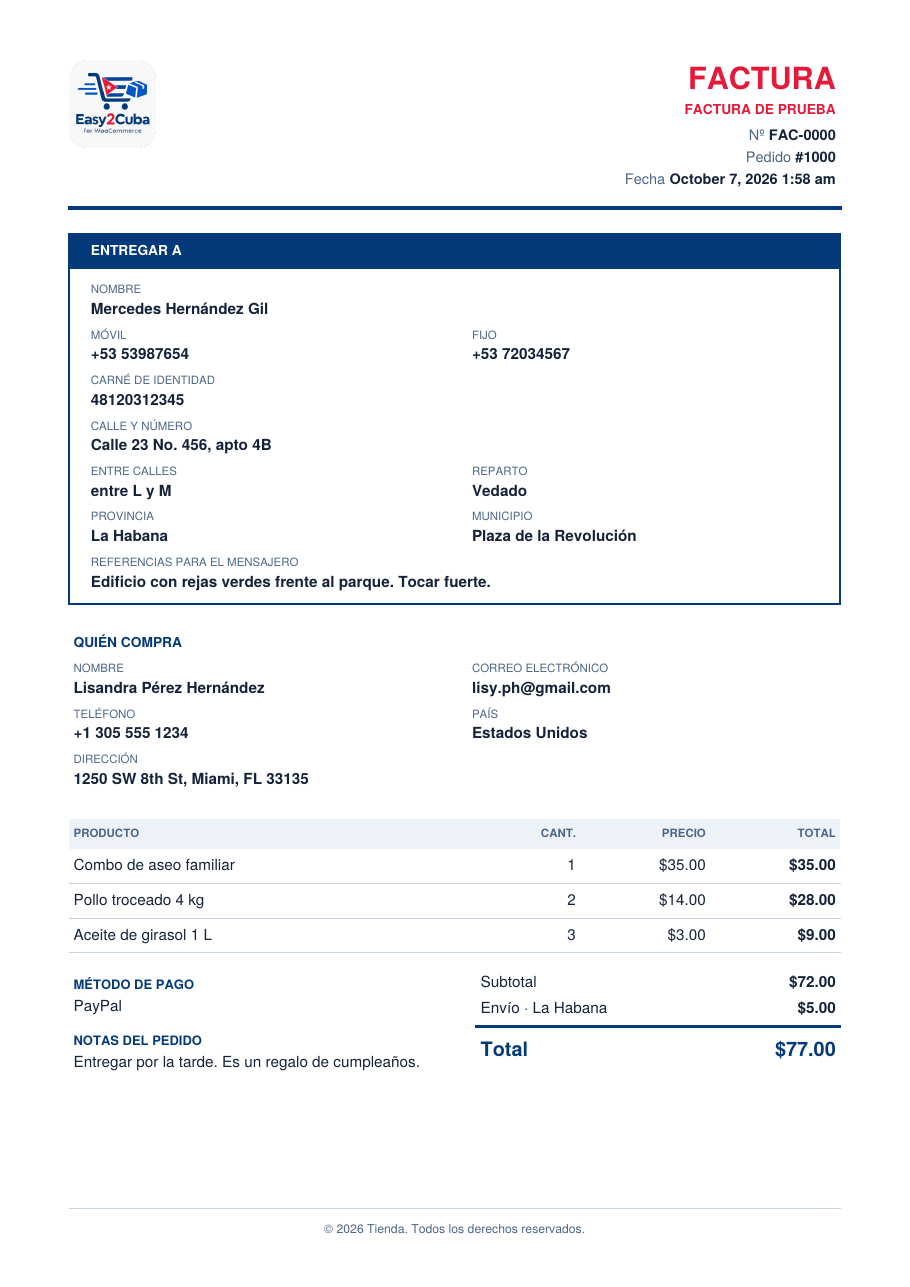
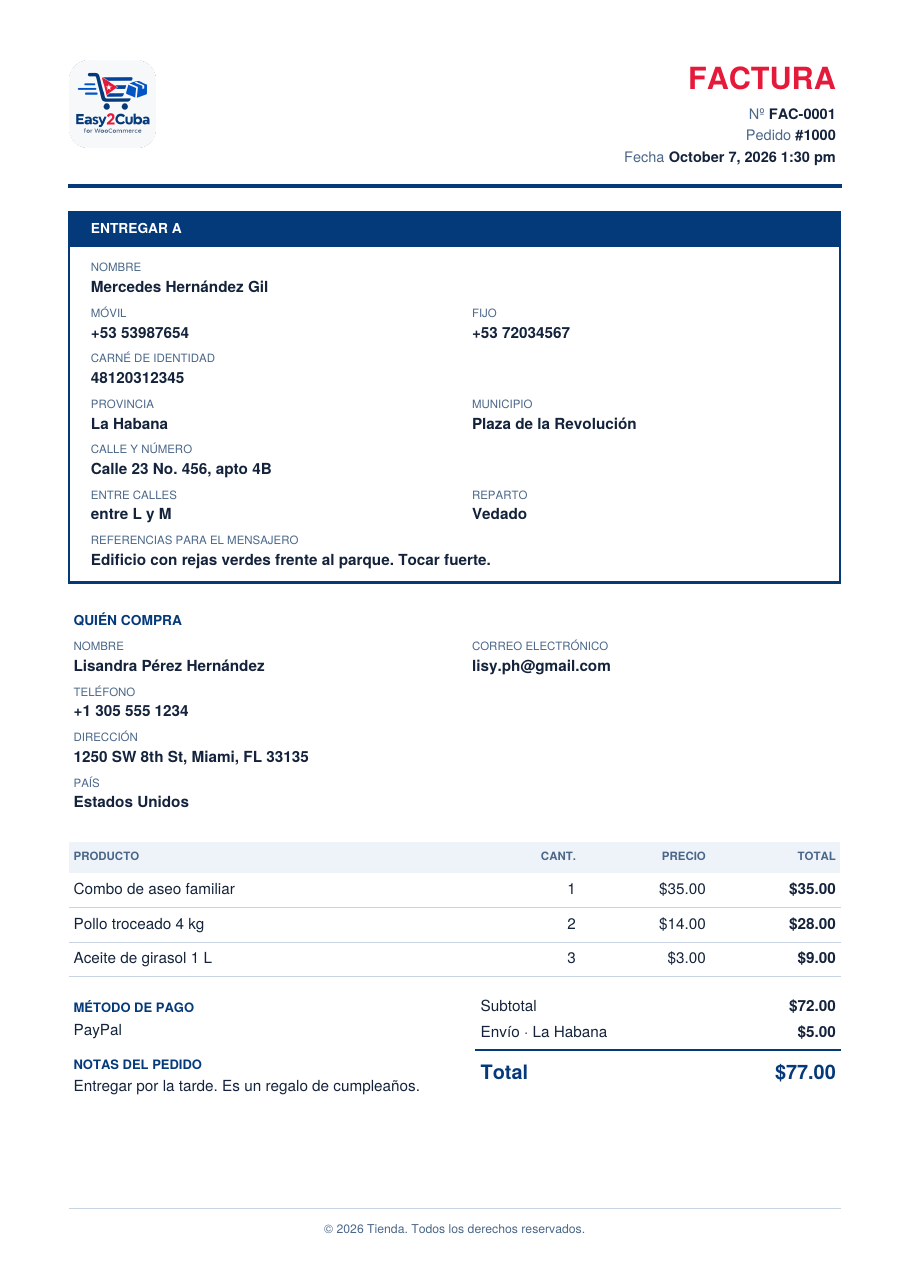
Datos de entrega en el orden del checkout; captura del PDF actualizada
Claude-Session: https://claude.ai/code/session_01EWhmGeABX6mTrDuc7dUCjf

diff --git a/includes/class-e2c-orders.php b/includes/class-e2c-orders.php
@@ -64,6 +64,17 @@ class E2C_Orders {
 				$rows[ E2C_I18n::t( $label ) ] = $v;
 			}
 		}
+		// Mismo orden que el checkout: provincia, municipio, dirección, reparto y referencias.
+		$province = $order->get_meta( '_e2c_province' );
+		if ( ! $province ) {
+			$province = E2C_Data::province_name( $order->get_shipping_state() );
+		}
+		if ( $province ) {
+			$rows[ E2C_I18n::t( 'province' ) ] = $province;
+		}
+		if ( $order->get_shipping_city() ) {
+			$rows[ E2C_I18n::t( 'municipality' ) ] = $order->get_shipping_city();
+		}
 		$address = trim( $order->get_shipping_address_1() . ', ' . $order->get_shipping_address_2(), ', ' );
 		if ( $address ) {
 			$rows[ E2C_I18n::t( 'rec_address' ) ] = $address;
@@ -72,21 +83,13 @@ class E2C_Orders {
 		if ( '' !== (string) $reparto ) {
 			$rows[ E2C_I18n::t( 'rec_reparto' ) ] = $reparto;
 		}
-		$province = $order->get_meta( '_e2c_province' );
-		if ( ! $province ) {
-			$province = E2C_Data::province_name( $order->get_shipping_state() );
-		}
-		$place = trim( $order->get_shipping_city() . ', ' . $province, ', ' );
-		if ( $place ) {
-			$rows[ E2C_I18n::t( 'rec_place' ) ] = $place;
+		$refs = $order->get_meta( '_e2c_refs' );
+		if ( '' !== (string) $refs ) {
+			$rows[ E2C_I18n::t( 'rec_refs' ) ] = $refs;
 		}
 		$consent = (string) $order->get_meta( '_e2c_consent' );
 		if ( '' !== $consent ) {
 			$rows[ E2C_I18n::t( 'consent_short' ) ] = mysql2date( get_option( 'date_format' ) . ' ' . get_option( 'time_format' ), $consent );
-		}
-		$refs = $order->get_meta( '_e2c_refs' );
-		if ( '' !== (string) $refs ) {
-			$rows[ E2C_I18n::t( 'rec_refs' ) ] = $refs;
 		}
 		return $rows;
 	}
